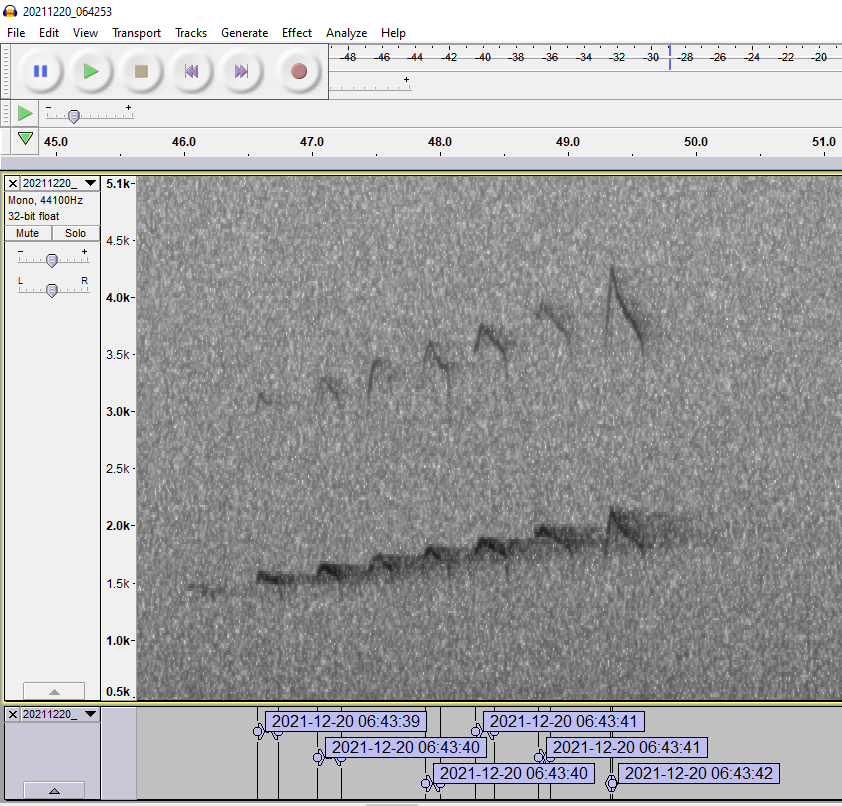
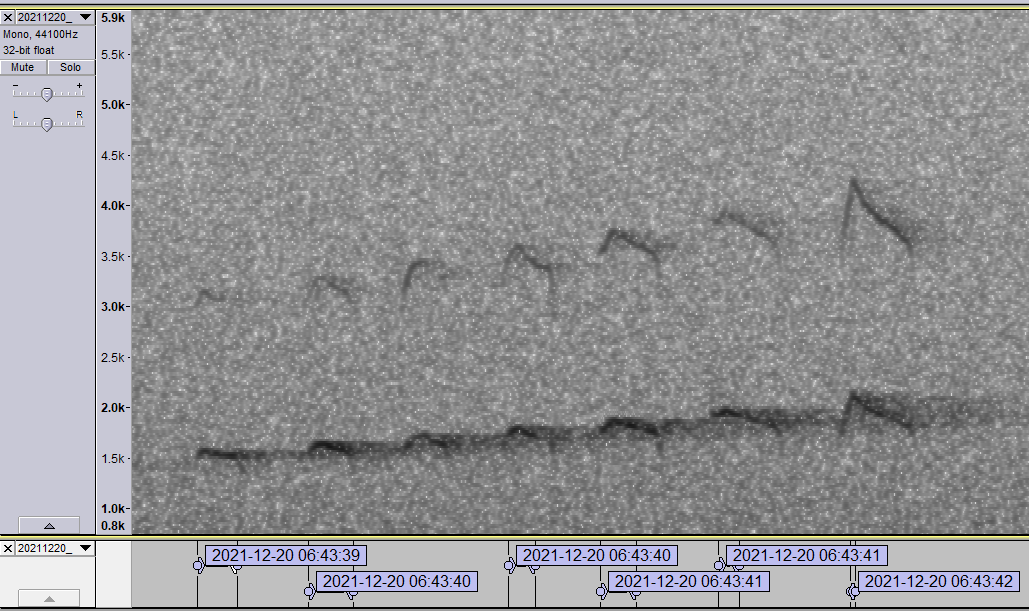
update

diff --git a/README.md b/README.md
@@ -92,9 +92,9 @@ unique ctimes and mtimes).
 ## only simulate output as file is already labelled
 rename_recording(path = "example", format = "wav", recorder = "Sony PCM-D100", simulate = T)
 #>                                        old.name  seconds                time
-#> example/20211220_064253.wav 20211220_064253.wav 300.0686 2022-01-04 01:32:45
+#> example/20211220_064253.wav 20211220_064253.wav 300.0686 2022-01-04 02:00:04
 #>                                        new.name
-#> example/20211220_064253.wav 20220104_013245.wav
+#> example/20211220_064253.wav 20220104_020004.wav
 ```
 
 ### 2.) `split_wave`: Divide long recordings
@@ -166,7 +166,14 @@ bioacoustics::spectro(audio, FFT_size = 2048, flim = c(0, 5000))
 In addition to the output shown above, a file with labels for reviewing
 events in `Audacity` is created (wrapping `seewave::write.audacity()`).
 
-<img src="inst/extdata/screenshot_1.PNG" width="269" style="display: block; margin: auto;" />
+<div class="figure" style="text-align: center">
+
+<img src="inst/extdata/screenshot_1.PNG" alt="Screenshot: Audacity raw labels" width="1200px" />
+<p class="caption">
+Screenshot: Audacity raw labels
+</p>
+
+</div>
 
 ### 4.) `extract_events`: Subset original recording file
 
@@ -195,7 +202,14 @@ bioacoustics::spectro(audio, FFT_size = 2048, flim = c(0, 5000))
 
 Output reviewed in `Audacity`
 
-<img src="inst/extdata/screenshot_2.PNG" width="286" style="display: block; margin: auto;" />
+<div class="figure" style="text-align: center">
+
+<img src="inst/extdata/screenshot_2.PNG" alt="Screenshot: Audacity refined label" width="1200px" />
+<p class="caption">
+Screenshot: Audacity refined label
+</p>
+
+</div>
 
 ### 5.) `batch_process`: Execute several algorithms in batch mode
 
@@ -204,14 +218,14 @@ Run all above steps in one go and for all files within a folder
 ``` r
 batch_process(path = "example", format = "wav", segment = NULL, downsample = NULL, 
     SNR = 8, species = "Glaucidium passerinum", rename = FALSE)
-#> Start processing:     2022-01-04 01:33:05 
+#> Start processing:     2022-01-04 02:00:27 
 #> Search for events using Glaucidium passerinum as template ...
 #> done
 #> Extract events ... 
 #> 8 selections overlapped
 #> done
-#> Finished processing:  2022-01-04 01:33:07 
-#>  Run time:    1.8 seconds
+#> Finished processing:  2022-01-04 02:00:29 
+#>  Run time:    2.11 seconds
 #> In total 2 events for template Glaucidium passerinum detected
 #>              filename    from        to       starting_time   event
 #> 1 20211220_064253.wav  45.576  50.38133 2021-12-20 06:43:39  46.576
